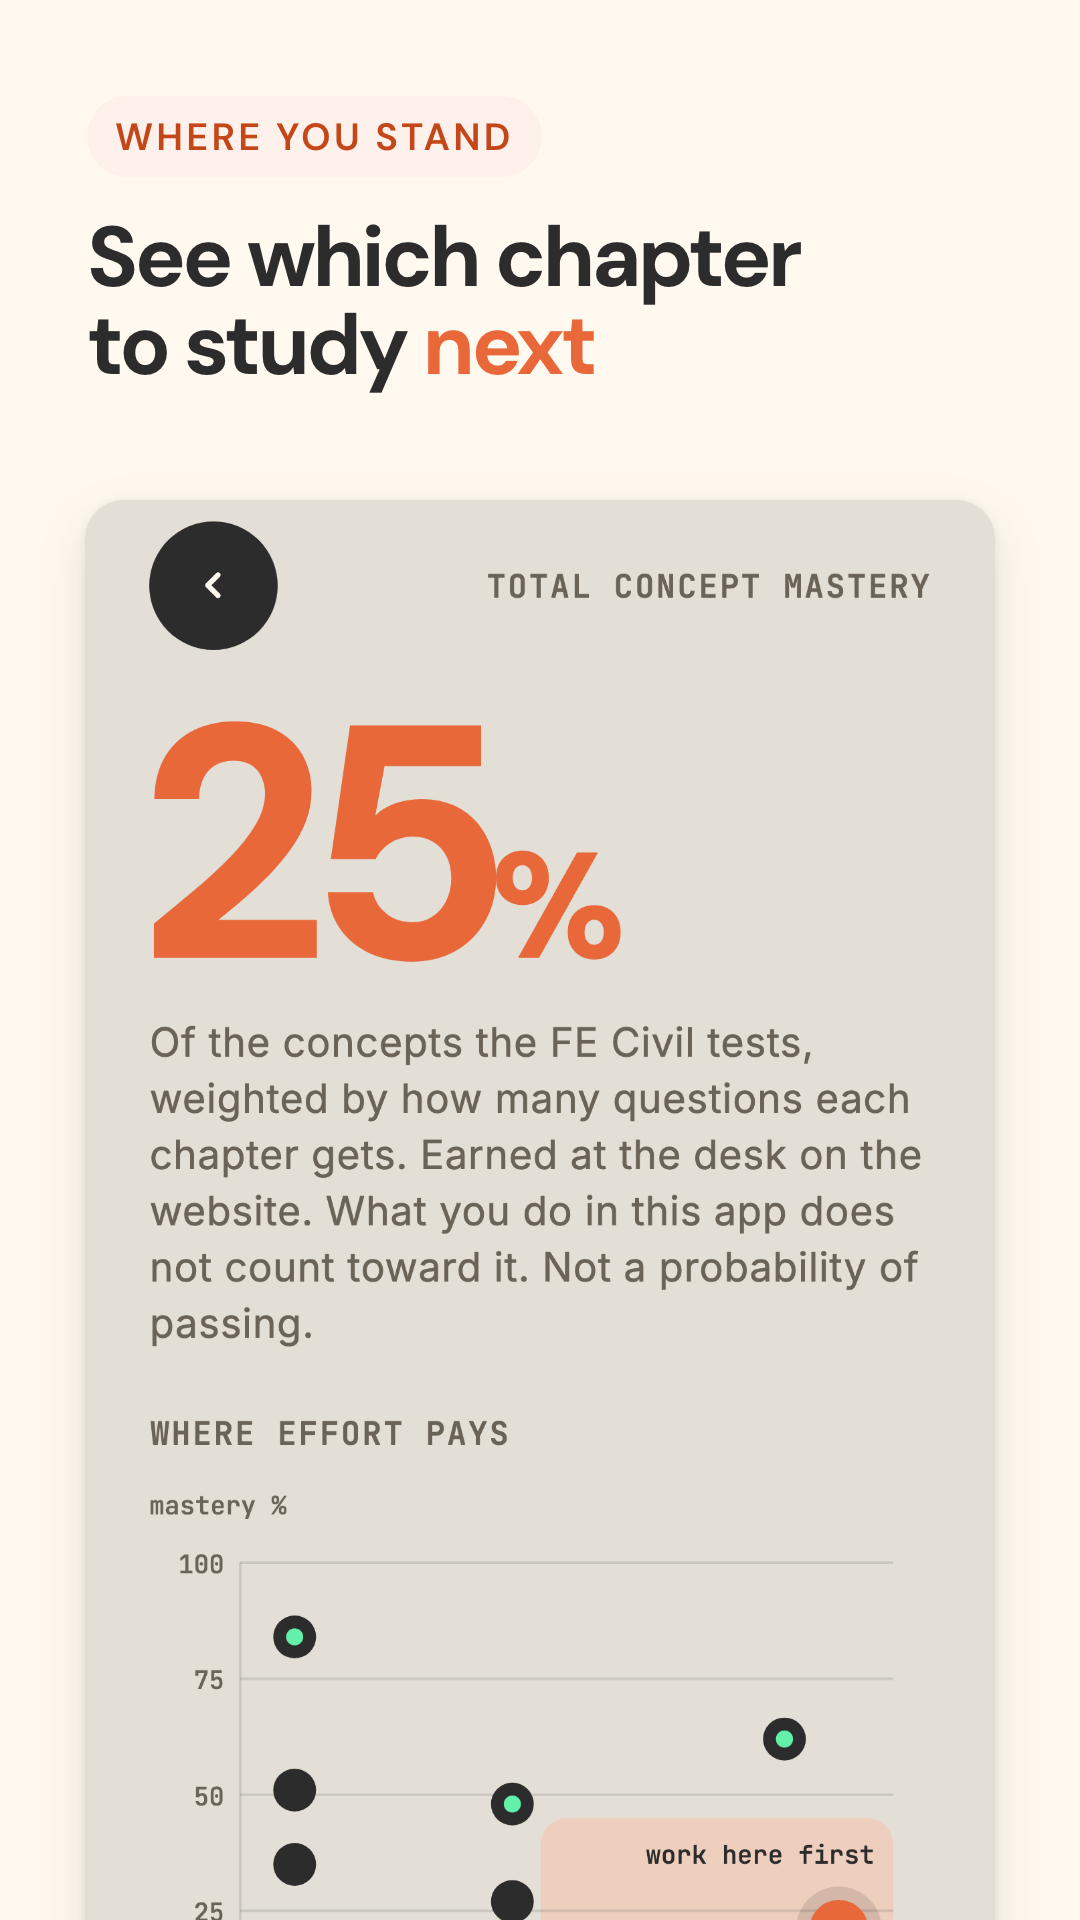
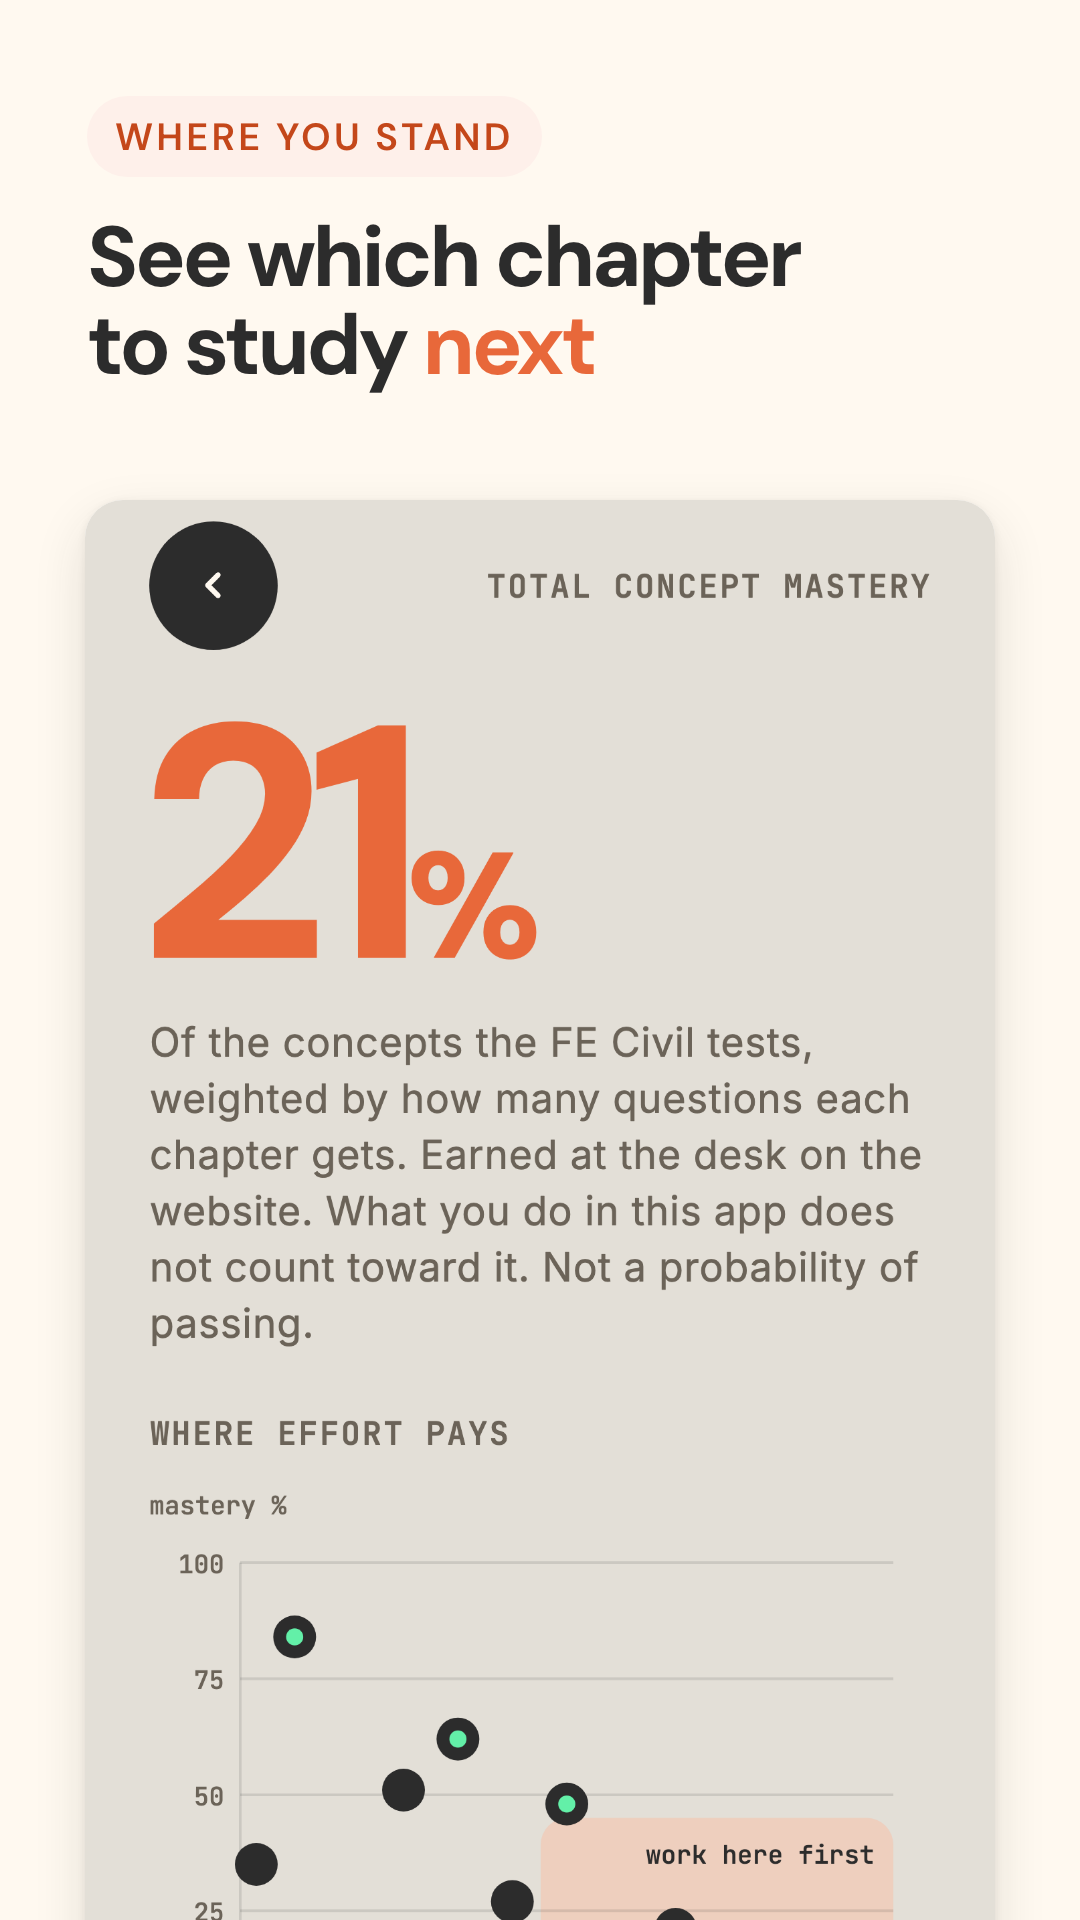
Weight the exam and mastery by the current NCEES spec, not the 2014 one
The simulation picked its 110 questions, and mastery weighted itself, on
the spec NCEES retired in 2020. Maths was worth 17 questions here against
about 9 on the real exam, and construction 5 against about 9, so a
student practising to this distribution got roughly twice the maths they
needed and half the construction.

Chapters are untouched: all 15 stay, nothing moves, no URL or stored
progress changes. The current spec has 14 areas because it merges
Mathematics and Statistics into one worth 8-12; we keep two chapters for
studying and split that 7/2, matching the three maths subtopics to one
statistics subtopic the spec lists under it.

The same map lives in four places. Three carry it:
service/examWeights.js, src/data/exam-bank/index.js and the phone's
mastery_model.dart. readiness.js imports it, so it follows. A new test
reads all three off disk and fails if they drift, because the quiet
failure is the dashboard and the phone showing different mastery for the
same account.

Existing tests hard-coded the old weights and are updated, including one
finder that became ambiguous when the headline percentage started
colliding with a chapter row. Goldens and the store screenshots are
regenerated: the mastery poster now reads 21%, not 25%.

diff --git a/service/examWeights.test.js b/service/examWeights.test.js
@@ -19,22 +19,57 @@ describe('examWeights', () => {
   });
 
   it('weightedMastery is coverage-anchored: untouched chapters drag it down', () => {
-    // Master only structural (weight 13 of 110) -> ~12.
-    expect(weightedMastery({ structural: { totalMastery: 100 } })).toBe(Math.round((100 * 13) / 110));
+    // Master only structural (weight 11 of 110) -> ~10.
+    expect(weightedMastery({ structural: { totalMastery: 100 } })).toBe(Math.round((100 * 11) / 110));
   });
 
   it('weightedMastery weights by exam share, not chapter count', () => {
-    // water-resources (14) mastered beats construction (5) mastered.
+    // water-resources (11) mastered beats materials (6) mastered.
     expect(weightedMastery({ 'water-resources': { totalMastery: 100 } })).toBeGreaterThan(
-      weightedMastery({ construction: { totalMastery: 100 } }),
+      weightedMastery({ materials: { totalMastery: 100 } }),
     );
+  });
+
+  it('matches the current NCEES spec, not the retired 2014 one', () => {
+    // research/civil/fe-civil-cbt-spec.pdf, effective July 2020, midpoints
+    // scaled to 110. The 2014 numbers gave maths 17 and construction 5, which
+    // is what this guards against coming back.
+    expect(EXAM_DISTRIBUTION.mathematics + EXAM_DISTRIBUTION.statistics).toBe(9);
+    expect(EXAM_DISTRIBUTION.construction).toBe(9);
+    expect(EXAM_DISTRIBUTION.surveying).toBe(6);
+    expect(EXAM_DISTRIBUTION['fluid-mechanics']).toBe(6);
+    expect(EXAM_DISTRIBUTION['water-resources']).toBe(11);
+  });
+
+  it('the three copies of the distribution agree', () => {
+    // The same map lives in the backend, the exam bank and the phone, kept in
+    // sync by hand. They diverging is the silent failure: the dashboard and
+    // the phone would show different mastery for the same account.
+    const fs = require('node:fs');
+    const parse = (src, open) => {
+      const i = src.indexOf(open);
+      const body = src.slice(i, src.indexOf('};', i));
+      const out = {};
+      for (const m of body.matchAll(/['"]?([a-z-]+)['"]?\s*:\s*(\d+)/g)) out[m[1]] = Number(m[2]);
+      return out;
+    };
+    const bank = parse(
+      fs.readFileSync('src/data/exam-bank/index.js', 'utf8'),
+      'const EXAM_DISTRIBUTION = {',
+    );
+    const phone = parse(
+      fs.readFileSync('mobile/lib/features/profile/mastery_model.dart', 'utf8'),
+      'const examWeights = <String, int>{',
+    );
+    expect(bank).toEqual(EXAM_DISTRIBUTION);
+    expect(phone).toEqual(EXAM_DISTRIBUTION);
   });
 
   it('coveragePercent counts only chapters past the threshold, weighted', () => {
     expect(coveragePercent({})).toBe(0);
     // A bare diagnostic blip (below threshold) is not "covered".
     expect(coveragePercent({ structural: { totalMastery: 10 } })).toBe(0);
-    // structural at/above threshold -> 13/110.
-    expect(coveragePercent({ structural: { totalMastery: 20 } })).toBe(Math.round((100 * 13) / 110));
+    // structural at/above threshold -> 11/110.
+    expect(coveragePercent({ structural: { totalMastery: 20 } })).toBe(Math.round((100 * 11) / 110));
   });
 });

diff --git a/mobile/test/profile_pages_test.dart b/mobile/test/profile_pages_test.dart
@@ -77,9 +77,9 @@ void main() {
   tearDown(() => appClock = DateTime.now);
 
   test('the weighted figure is the website\'s, not a plain average', () {
-    // 62*13 + 35*4 + 84*4 + 51*4 + 48*8 + 12*4 + 27*8 + 9*4 + 21*14 + 16*13 + 6*10
-    // = 806+140+336+204+384+48+216+36+294+208+60 = 2732, over 110 questions.
-    expect(weightedMastery(totalsOf(_sample)), 25);
+    // 62*7 + 35*2 + 84*4 + 51*6 + 48*9 + 12*4 + 27*8 + 9*6 + 21*11 + 16*11 + 6*10
+    // = 434+70+336+306+432+48+216+54+231+176+60 = 2363, over 110 questions.
+    expect(weightedMastery(totalsOf(_sample)), 21);
     expect(weightedMastery({}), 0);
     expect(stageName(84), 'Mastered');
     expect(stageName(51), 'Familiar');
@@ -90,10 +90,12 @@ void main() {
   test('focus is low mastery times high weight, mastered chapters out', () {
     expect(
       focusChapters(totalsOf(_sample)),
-      // (100-21)*14 = 1106, (100-0)*11 = 1100, (100-16)*13 = 1092.
-      ['water-resources', 'geotechnical', 'structural'],
+      // (100-0)*11 = 1100, (100-6)*10 = 940, (100-16)*11 = 924. Under the
+      // July 2020 weighting the untouched chapters that carry real weight
+      // rise to the top, which is the whole point of the model.
+      ['geotechnical', 'transportation', 'structural'],
     );
-    expect(focusChapters(totalsOf(_sample)).first, 'water-resources');
+    expect(focusChapters(totalsOf(_sample)).first, 'geotechnical');
     expect(focusChapters({'ethics': 95}), isNot(contains('ethics')));
   });
 
@@ -101,7 +103,15 @@ void main() {
     _phone(tester, 1700);
     await tester.pumpWidget(_app(MasteryScreen(mastery: _sample)));
     await _settle(tester);
-    expect(find.text('25%', findRichText: true), findsOneWidget);
+    // The headline, found by its 124pt display size rather than by text: a
+    // chapter row happens to read 21% too, so a plain text finder matches two.
+    final headline = find.byWidgetPredicate(
+      (w) =>
+          w is Text &&
+          w.textSpan?.toPlainText() == '21%' &&
+          (w.textSpan as TextSpan?)?.style?.fontSize == 124,
+    );
+    expect(headline, findsOneWidget);
     expect(find.text('MASTERED'), findsOneWidget); // ethics
     // The app never says "games" to a student (owner directive, 2026-09-07).
     expect(find.text('in this app: 5 of 10 done'), findsNWidgets(3));

diff --git a/src/data/exam-bank/index.js b/src/data/exam-bank/index.js
@@ -41,22 +41,29 @@ const CHAPTER_IDS = [
 ];
 
 // NCEES FE Civil exam weighted distribution (110 questions total)
+// Current spec: NCEES FE CIVIL CBT, effective July 2020
+// (research/civil/fe-civil-cbt-spec.pdf). Replaces the retired 2014 numbers,
+// which gave maths 17 of 110 against about 9 on the real exam and construction
+// 5 against about 9. Mathematics and Statistics are one 8-12 area in the spec;
+// we keep two chapters for studying and split it 7/2.
+// Must stay identical to service/examWeights.js and
+// mobile/lib/features/profile/mastery_model.dart.
 const EXAM_DISTRIBUTION = {
-  'mathematics':         13,  // incl. Computational Tools (~8 math + ~5 comp-tools)
-  'statistics':          4,
-  'ethics':              4,
-  'economics':           4,
-  'statics':             8,
-  'dynamics':            4,
-  'mechanics-materials': 8,
-  'materials':           4,
-  'fluid-mechanics':     4,
-  'surveying':           4,
-  'water-resources':     14,  // Hydraulics & Hydrologic (8–12) + Environmental (6–9)
-  'structural':          13,  // Structural Analysis (6–9) + Structural Design (6–9)
-  'geotechnical':        11,
-  'transportation':      10,
-  'construction':        5,
+  'mathematics':          7,
+  'statistics':           2,
+  'ethics':               4,
+  'economics':            6,
+  'statics':              9,
+  'dynamics':             4,
+  'mechanics-materials':  8,
+  'materials':            6,
+  'fluid-mechanics':      6,
+  'surveying':            6,
+  'water-resources':      11,
+  'structural':           11,
+  'geotechnical':         11,
+  'transportation':       10,
+  'construction':         9,
 };
 
 // Build a lookup map of diagnostic IDs for fast exclusion

diff --git a/service/examWeights.js b/service/examWeights.js
@@ -2,23 +2,34 @@
 // much each chapter counts toward the 110-question exam. Mirrors the frontend
 // copy in src/data/exam-bank/index.js (kept in sync by hand; identical values).
 // Used to weight chapter mastery into one honest, coverage-anchored number.
+//
+// Set from the CURRENT spec: NCEES FE CIVIL CBT Exam Specifications, effective
+// with the July 2020 examinations (research/civil/fe-civil-cbt-spec.pdf). The
+// earlier numbers came from the RETIRED 2014 spec and were badly wrong in two
+// places: maths was worth 17 of 110 here against about 9 on the real exam, and
+// construction 5 against about 9. See research/civil/SPEC-RECONCILIATION.md.
+//
+// The current spec has 14 areas, not 15: it merges Mathematics and Statistics
+// into one area worth 8-12. We keep them as two chapters for studying (owner,
+// 2026-10-09) and split that allowance 7/2, in proportion to the four
+// subtopics the spec lists under it, three of which are maths.
 
 const EXAM_DISTRIBUTION = {
-  mathematics: 13, // incl. Computational Tools
-  statistics: 4,
+  mathematics: 7,
+  statistics: 2,
   ethics: 4,
-  economics: 4,
-  statics: 8,
+  economics: 6,
+  statics: 9,
   dynamics: 4,
   'mechanics-materials': 8,
-  materials: 4,
-  'fluid-mechanics': 4,
-  surveying: 4,
-  'water-resources': 14, // Hydraulics & Hydrologic + Environmental
-  structural: 13, // Structural Analysis + Structural Design
+  materials: 6,
+  'fluid-mechanics': 6,
+  surveying: 6,
+  'water-resources': 11,
+  structural: 11,
   geotechnical: 11,
   transportation: 10,
-  construction: 5,
+  construction: 9,
 };
 // Sum = 110 — matches the NCEES FE Civil total.
 

diff --git a/src/data/readiness.test.js b/src/data/readiness.test.js
@@ -15,8 +15,8 @@ describe('computeReadiness', () => {
     expect(computeReadiness(all)).toBe(100);
   });
 
-  it('weights by exam question count (statics weight 8 of 110)', () => {
-    expect(computeReadiness({ statics: 100 })).toBe(Math.round((100 * 8) / 110)); // 7
+  it('weights by exam question count (statics weight 9 of 110)', () => {
+    expect(computeReadiness({ statics: 100 })).toBe(Math.round((100 * 9) / 110)); // 8
   });
 
   it('ignores unknown chapter ids', () => {
@@ -28,10 +28,11 @@ describe('computeFocusAreas', () => {
   it('returns the 3 highest-leverage chapters, weakest-first by score', () => {
     const focus = computeFocusAreas({});
     expect(focus).toHaveLength(3);
-    // all at 0% mastery -> ranked purely by exam weight; water-resources (14)
-    // is highest under the NCEES-rebalanced distribution
-    expect(focus[0].ch.id).toBe('water-resources');
-    expect(focus[0].focusScore).toBe(100 * 14);
+    // All at 0% mastery, so this ranks purely by exam weight. Under the
+    // July 2020 spec three chapters tie at 11, the top weight; the sort is
+    // stable, so the earliest of them in CHAPTERS order comes first.
+    expect(['water-resources', 'structural', 'geotechnical']).toContain(focus[0].ch.id);
+    expect(focus[0].focusScore).toBe(100 * 11);
   });
 
   it('excludes chapters at or above the mastered threshold', () => {

diff --git a/mobile/lib/features/profile/mastery_model.dart b/mobile/lib/features/profile/mastery_model.dart
@@ -11,21 +11,21 @@ Map<String, int> totalsOf(Map<String, ChapterMastery> m) => {
 /// EXAM_DISTRIBUTION). One source for one number: the phone's mastery row and
 /// the website's dashboard must agree.
 const examWeights = <String, int>{
-  'mathematics': 13,
-  'statistics': 4,
+  'mathematics': 7,
+  'statistics': 2,
   'ethics': 4,
-  'economics': 4,
-  'statics': 8,
+  'economics': 6,
+  'statics': 9,
   'dynamics': 4,
   'mechanics-materials': 8,
-  'materials': 4,
-  'fluid-mechanics': 4,
-  'surveying': 4,
-  'water-resources': 14,
-  'structural': 13,
+  'materials': 6,
+  'fluid-mechanics': 6,
+  'surveying': 6,
+  'water-resources': 11,
+  'structural': 11,
   'geotechnical': 11,
   'transportation': 10,
-  'construction': 5,
+  'construction': 9,
 };
 
 /// Chapter mastery weighted by exam questions, rounded. Chapters missing from
